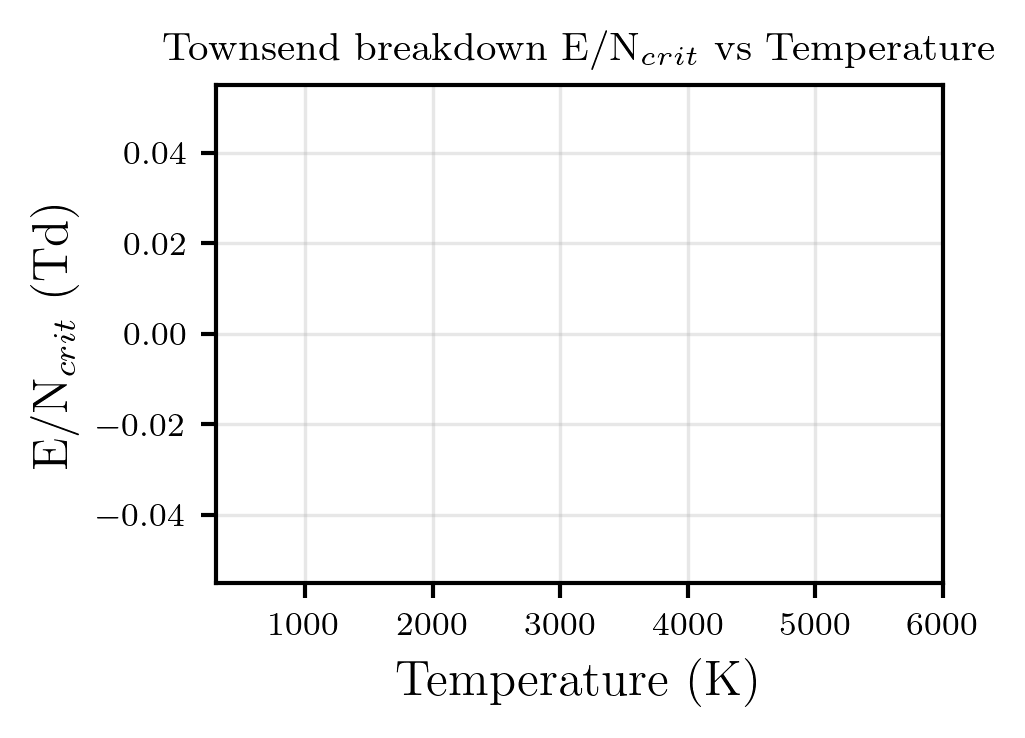
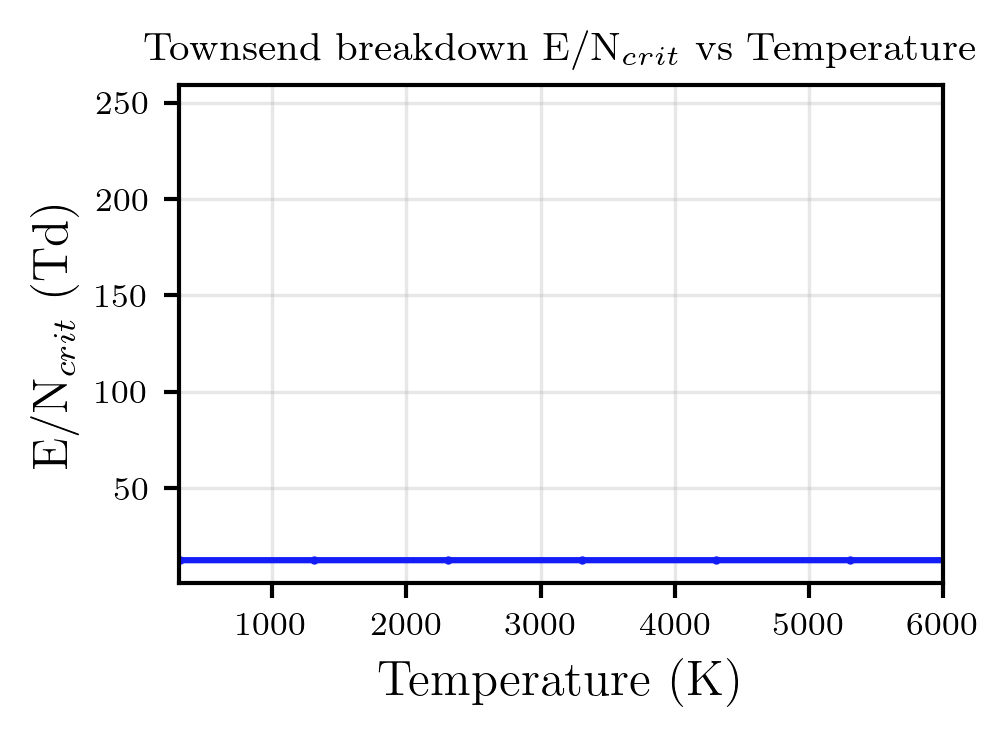
augmented config_co2_mixture.py and related helper functions for main.py to be more generalized

diff --git a/config.py b/config.py
@@ -6,15 +6,15 @@ REFPRESSURE = 1.0e5        # Pa  (standard state reference)
 TEMPERATURE = np.arange(310, 10000, 1000)  # stay within critical temperature of CO2 (304.13 K) to avoid phase change; units: K
 
 # CANTERA INPUTS
-SPECIES_NAME = "CO2:1"
-SPECIS_WEIGHT = 0.028965
+SPECIES_NAME = "co2"
+SPECIS_WEIGHT = 0.04401 # kg/mol
 
 _HOME     = "/Users/zoellewong/Desktop/pyfiles/research/gibbsFreeEnergy/"
-# _GRI30PLASMA_YAML = Path(_HOME) / "cantera" / "data" / "gri30_plasma.yaml"  # charged species: O+, e-
+_GRI30PLASMA_YAML = _HOME + "/cantera/" + "data" + "/gri30_plasma.yaml"  # charged species: O+, e-
 # _PLASMA_YAML = Path(_HOME) / "cantera" / "data" / "plasma.yaml"  # charged species: O+, e-
-_AIR_YAML   =  _HOME + "/cantera/" + "data" + "/gri30.yaml"
+# _AIR_YAML   =  _HOME + "/cantera/" + "data" + "/gri30.yaml"
 
-CANTERA_YAML = _AIR_YAML  # neutral species: CO2, CO, O
+CANTERA_YAML = _GRI30PLASMA_YAML  # neutral species: CO2, CO, O
 
 
 #VCS_INITIAL_GUESS = {"CO2": 1.0, "O+": 1e-10, "C+": 1e-10, "e-": 2e-10, "O++": 1e-10, "C++": 1e-10}   # "equilibrium" or "initial" (initial guess from config.py)

diff --git a/thermo/cantera_eq.py b/thermo/cantera_eq.py
@@ -147,8 +147,8 @@ def get_mu0(T, P, species): # relies on many .yaml and partition functions
                     "Add it to mu0_stat.py or check config.SPECIES_DENSITY_MAP."
                 )
 
-        mu = val + R*T*np.log(phi*P/P0)
-        mu0.append(mu)  # already in J/mol
+            mu = val + R*T*np.log(phi*P/P0)
+            mu0.append(mu)  # already in J/mol
                 
    
     return np.array(mu0)
